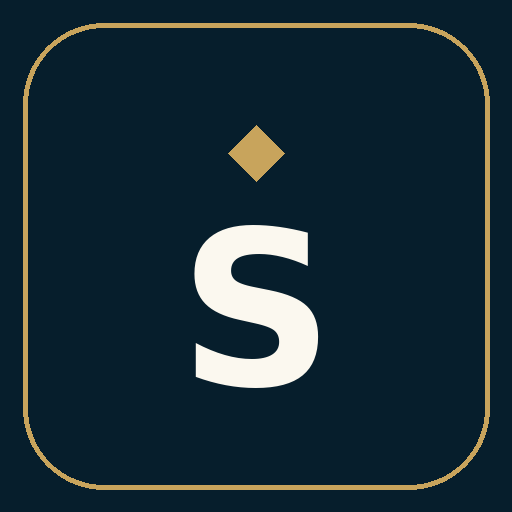
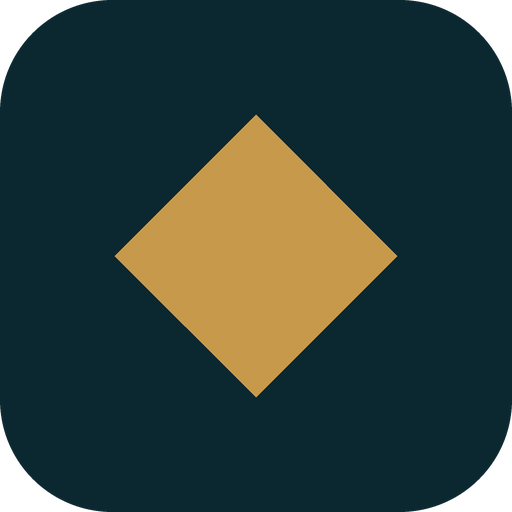
أيقونة المنصة من رمز الهوية الرسمي: المعيّن الذهبي على الأرضية الداكنة
- scripts/brand/build-icons.py يولّد SVG وPNG وICO لكل التطبيقات من الرمز الرسمي
- المعيّن أكبر من الرسمي قليلًا ليُقرأ في 16 بكسل، والقابلة للقص داخل منطقة الأمان
- إعادة بناء القادة والإدارة والمصفوفة

Claude-Session: https://claude.ai/code/session_01W3KAZcYrKujFySBoKo4jvp

Changed region(s): [[0.2188, 0.2188, 0.7812, 0.7812], [0.0, 0.0, 1.0, 1.0]]

diff --git a/scripts/brand/build-icons.py b/scripts/brand/build-icons.py
@@ -1,0 +1,57 @@
+"""أيقونات المنصة من رمز الهوية الرسمي: المعيّن الذهبي (shared/brand/svg/icon-transparent.svg)
+على مربع بلون الهوية الداكن. يكتب SVG وPNG وICO لكل تطبيق: python3 scripts/brand/build-icons.py"""
+from pathlib import Path
+from PIL import Image, ImageDraw
+
+ROOT = Path(__file__).resolve().parents[2]
+GROUND, GOLD = '#0B272F', '#C79A4B'  # graphite، وcopper: ذهبي الهوية على الأرضية الداكنة
+
+
+def svg(side: float, radius: int = 112) -> str:
+    # side: ضلع المعيّن قبل التدوير من 512 (الرمز الرسمي 160؛ أكبر هنا ليُقرأ في 16 بكسل)
+    o = 256 - side / 2
+    corner = f' rx="{radius}"' if radius else ''
+    return (f'<?xml version="1.0" encoding="UTF-8"?>\n<svg xmlns="http://www.w3.org/2000/svg" viewBox="0 0 512 512" role="img" aria-label="Milestone Impact">\n'
+            f'  <title>Milestone Impact</title>\n  <rect width="512" height="512"{corner} fill="{GROUND}"/>\n'
+            f'  <rect x="{o:g}" y="{o:g}" width="{side:g}" height="{side:g}" transform="rotate(45 256 256)" fill="{GOLD}"/>\n</svg>\n')
+
+
+def png(size: int, side: float, radius: int = 112) -> Image.Image:
+    s = 4  # رسم بدقة أعلى ثم تصغير لحواف ناعمة
+    im = Image.new('RGBA', (512 * s, 512 * s), (0, 0, 0, 0))
+    d = ImageDraw.Draw(im)
+    d.rounded_rectangle((0, 0, 512 * s - 1, 512 * s - 1), radius=radius * s, fill=GROUND)
+    h = side * 2 ** 0.5 / 2  # نصف قطر المعيّن بعد التدوير
+    c = 256 * s
+    d.polygon([(c, c - h * s), (c + h * s, c), (c, c + h * s), (c - h * s, c)], fill=GOLD)
+    return im.resize((size, size), Image.LANCZOS)
+
+
+TAB = 200        # أيقونة التبويب والتطبيق
+MASK = 150       # القابلة للقص (منطقة الأمان 80٪)
+TARGETS = {
+    'favicon.svg': lambda: svg(TAB),
+    'apple-touch-icon.png': lambda: png(180, TAB, 0),
+    'apple-touch-icon-180.png': lambda: png(180, TAB, 0),
+    'icon-192.png': lambda: png(192, TAB), 'android-chrome-192x192.png': lambda: png(192, TAB),
+    'icon-512.png': lambda: png(512, TAB), 'android-chrome-512x512.png': lambda: png(512, TAB),
+    'icon-maskable-512.png': lambda: png(512, MASK, 0), 'maskable-icon-512.png': lambda: png(512, MASK, 0),
+}
+DIRS = ['shared/brand/favicon', 'public', 'home', 'leaders-app/public', 'admin-app/public', 'SSPDF', 'SSPDF/public']
+
+for rel in DIRS:
+    folder = ROOT / rel
+    for name, make in TARGETS.items():
+        f = folder / name
+        if not f.exists():
+            continue
+        out = make()
+        if isinstance(out, str):
+            f.write_text(out)
+        else:
+            out.save(f, optimize=True)
+        print('✓', f.relative_to(ROOT))
+    ico = folder / 'favicon.ico'
+    if ico.exists():
+        png(256, TAB).save(ico, sizes=[(16, 16), (32, 32), (48, 48)])
+        print('✓', ico.relative_to(ROOT))
